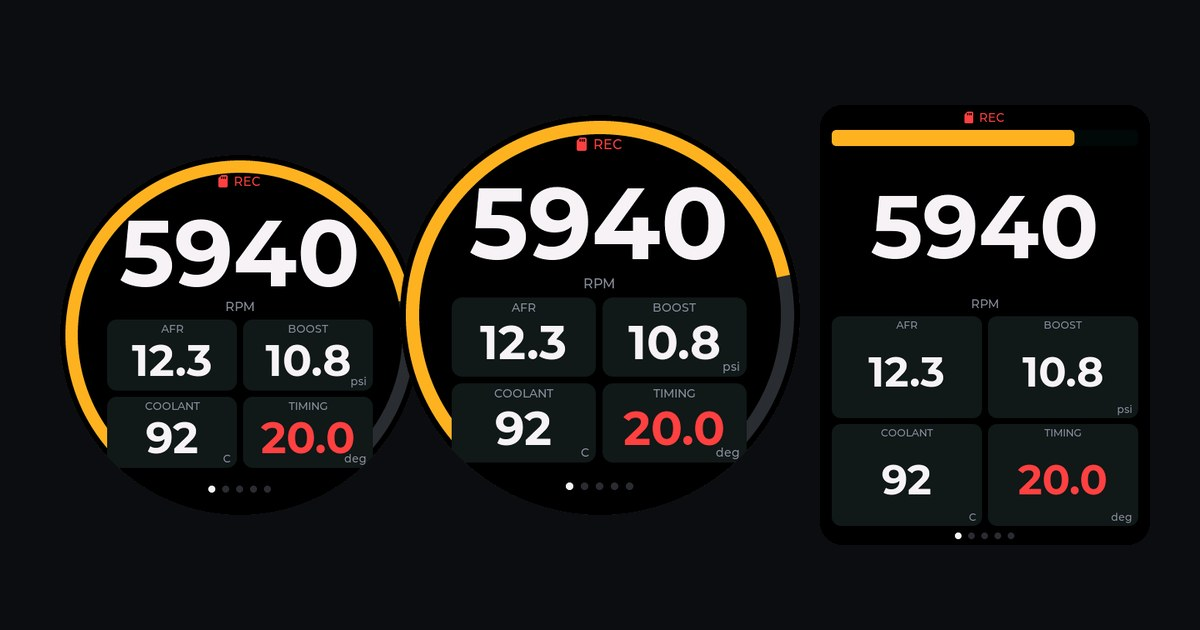
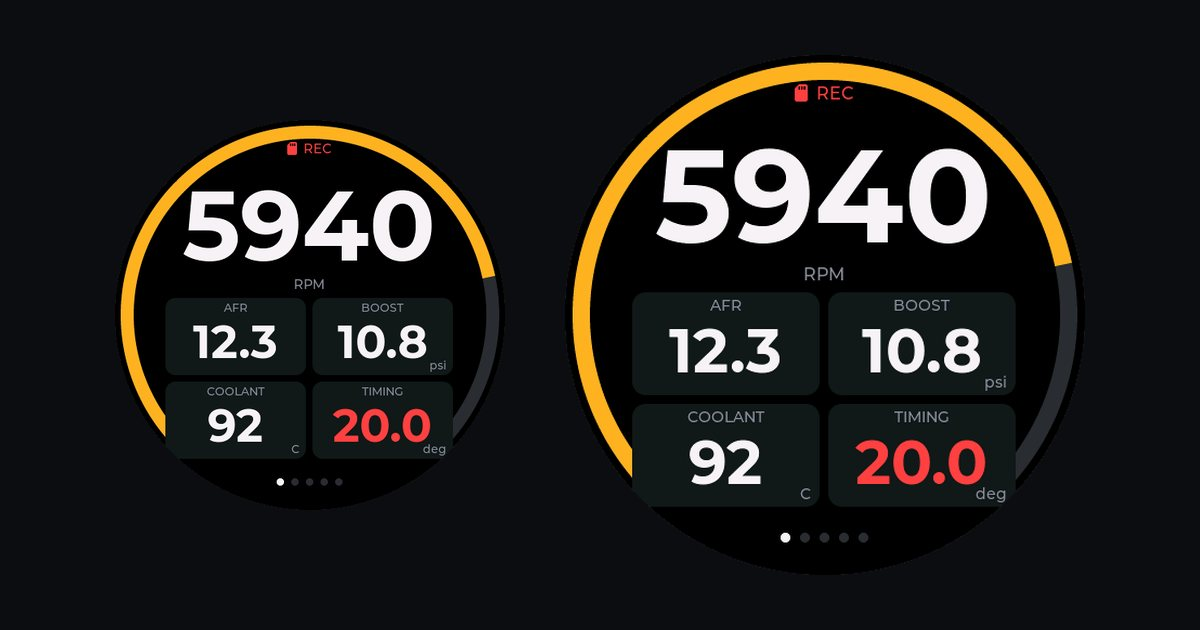
R53 dash screen post: the two supported Waveshare screens, with part numbers and Amazon links
The page now lists only the ESP32-S3-Touch-LCD-2.1 and ESP32-S3-Touch-LCD-2.8C,
with a buy link for each. The AMOLED boards, their renders and the 2.41 V1/V2
flashing note are gone, and the cover shows the 2.1 and 2.8 at their size ratio.

Claude-Session: https://claude.ai/code/session_0179yenqSUUUni4Xp4BaMoBC

Changed region(s): [[0.0308, 0.0905, 0.925, 0.8746], [0.925, 0.8143, 0.9558, 0.8444], [0.925, 0.6333, 0.9558, 0.6635]]

diff --git a/_includes/r53-dash-feature.html b/_includes/r53-dash-feature.html
@@ -55,12 +55,12 @@
   <div class="stats">
     <div class="stat"><b>5</b><span>pages, swiped</span></div>
     <div class="stat"><b>20 Hz</b><span>live values</span></div>
-    <div class="stat"><b>4</b><span>screens it runs on</span></div>
+    <div class="stat"><b>2</b><span>Waveshare screens</span></div>
     <div class="stat"><b>Always</b><span>logging to SD</span></div>
   </div>
 </div>
 
-<p class="note">Every screen image on this page is rendered from the screen firmware's own page code with simulated data, a third-gear pull at 5,940 rpm and 10.8 psi. They are not photos of the hardware: the new screens haven't arrived yet.</p>
+<p class="note">Every screen image on this page is rendered from the screen firmware's own page code with simulated data, a third-gear pull at 5,940 rpm and 10.8 psi. They are not photos of the hardware.</p>
 
 <h2 id="pages">The pages</h2>
 <p class="lead">Swipe left and right. The line at the top says whether the bridge is there and whether the card is recording; the dots at the bottom say which page you're on. Shown on the 2.8&Prime; round LCD.</p>
@@ -73,23 +73,20 @@
   <figure><img src="/assets/images/r53-dash-screen/lcd28c-no-bridge.png" alt="Round dash screen before the bridge is connected: every gauge reads two grey dashes, No bridge at the top" width="480" height="480" loading="lazy"><figcaption><b>No bridge.</b> Before the cable is in, or if the bridge stops talking: every value goes to grey dashes. Nothing on the screen is ever a frozen number from a second ago.</figcaption></figure>
 </div>
 
-<h2 id="screens">Three screens, one firmware</h2>
-<p class="lead">The same pages run on four Waveshare ESP32-S3 boards. I ordered the three new ones to see which reads best in the car; the 2.1&Prime; is the methanol controller's screen, which I already have.</p>
+<h2 id="screens">Two screens, one firmware</h2>
+<p class="lead">The screen firmware supports two Waveshare round touch boards, and only these two. Both are an ESP32-S3 behind a 480 &times; 480 IPS panel, so every page looks the same on either; the 2.8&Prime; is just bigger. The 2.1&Prime; is the methanol controller's screen.</p>
 <div class="three">
-  <figure><img src="/assets/images/r53-dash-screen/lcd28c-gauges.png" alt="Gauges page on the 2.8 inch round LCD" width="480" height="480" loading="lazy"><figcaption><b>2.8&Prime; round LCD.</b> The biggest face, and the easiest port: the 2.1&Prime;'s wiring with a different panel and touch chip.</figcaption></figure>
-  <figure><img src="/assets/images/r53-dash-screen/amoled175-gauges.png" alt="Gauges page on the 1.75 inch round AMOLED" width="466" height="466" loading="lazy"><figcaption><b>1.75&Prime; round AMOLED.</b> Fits a 52&nbsp;mm gauge pod, and the methanol screen ran on it before, so its code came back out of git.</figcaption></figure>
-  <figure class="rect"><img src="/assets/images/r53-dash-screen/amoled241-gauges.png" alt="Gauges page on the 2.41 inch AMOLED in portrait, RPM bar across the top" width="450" height="600" loading="lazy"><figcaption><b>2.41&Prime; AMOLED.</b> The brightest of the lot. Portrait for now; landscape once I've seen the real panel.</figcaption></figure>
+  <figure><img src="/assets/images/r53-dash-screen/lcd28c-gauges.png" alt="Gauges page on the 2.1 inch round LCD" width="480" height="480" loading="lazy" style="max-width:225px"><figcaption><b>2.1&Prime; round LCD.</b> Waveshare ESP32-S3-Touch-LCD-2.1. Its panel and touch code are already proven on the methanol controller.</figcaption></figure>
+  <figure><img src="/assets/images/r53-dash-screen/lcd28c-gauges.png" alt="Gauges page on the 2.8 inch round LCD" width="480" height="480" loading="lazy"><figcaption><b>2.8&Prime; round LCD.</b> Waveshare ESP32-S3-Touch-LCD-2.8C. The bigger face: the 2.1&Prime;'s wiring with a different panel and touch chip.</figcaption></figure>
 </div>
 <div class="tbl"><table>
-  <thead><tr><th>Screen</th><th>Panel</th><th>Brightness</th><th>Fits</th></tr></thead>
+  <thead><tr><th>Screen</th><th>Waveshare part</th><th>Panel</th><th>Fits</th><th>Buy</th></tr></thead>
   <tbody>
-    <tr><td><b>2.1&Prime; round LCD</b></td><td class="num">480 &times; 480 IPS</td><td>not published</td><td>52&nbsp;mm pod</td></tr>
-    <tr><td><b>2.8&Prime; round LCD</b></td><td class="num">480 &times; 480 IPS</td><td>not published</td><td>60&nbsp;mm pod or a printed bezel</td></tr>
-    <tr><td><b>1.75&Prime; round AMOLED</b></td><td class="num">466 &times; 466</td><td class="num">700 nits</td><td>52&nbsp;mm pod</td></tr>
-    <tr><td><b>2.41&Prime; AMOLED</b></td><td class="num">450 &times; 600</td><td class="num">800 nits</td><td>dash top or centre stack</td></tr>
+    <tr><td><b>2.1&Prime; round LCD</b></td><td><code>ESP32-S3-Touch-LCD-2.1</code></td><td class="num">480 &times; 480 IPS</td><td>52&nbsp;mm pod</td><td><a href="https://www.amazon.com/dp/B0DDPQSKJD">Amazon</a></td></tr>
+    <tr><td><b>2.8&Prime; round LCD</b></td><td><code>ESP32-S3-Touch-LCD-2.8C</code></td><td class="num">480 &times; 480 IPS</td><td>60&nbsp;mm pod or a printed bezel</td><td><a href="https://www.amazon.com/dp/B0DMJZPH2R">Amazon</a></td></tr>
   </tbody>
 </table></div>
-<p>The AMOLEDs have real blacks, so a dark gauge face holds its contrast in daylight far better than a backlit LCD at the same rating. They can burn in a fixed layout, so the whole picture drifts a few pixels every three minutes, the same care the methanol screen's AMOLED build had.</p>
+<p>Buy the exact part number. Waveshare sells other round and AMOLED boards with the same ESP32-S3 that look close, but they use different panels and touch chips and aren't supported.</p>
 
 <h2 id="logging">It logs everything, all the time</h2>
 <p class="lead">The bridge has had a microSD slot since the rev C board. Until now it only logged when the app switched it on, and only the channels it decodes. Now it logs whenever a card is in, and keeps all of it.</p>
@@ -119,10 +116,10 @@
 <p>Both go on from Chrome or Edge with the <a href="https://mrblahhhh.github.io/esp32-shift-light-R53-mini/">R53 flasher</a>, build 11 on:</p>
 <ul class="tight">
   <li><b>The bridge.</b> Plug in the XIAO, press Connect, tick <b>This board drives a dash screen</b> and flash. Update keeps your K-line polling and shift light settings. From then on the USB-C is the screen's, so to flash the bridge again, hold BOOT on the XIAO while you plug it into the computer.</li>
-  <li><b>The screen.</b> Flash it on its own, not plugged into the bridge. All four have the same chip, so the first time the flasher asks which one it is; after that it knows from the firmware. Not sure whether a 2.41&Prime; is the V1 or V2 board: flash the V2 build, and if it stays dark, the V1.</li>
+  <li><b>The screen.</b> Flash it on its own, not plugged into the bridge. Both have the same chip, so the first time the flasher asks which one it is, the 2.1&Prime; or the 2.8&Prime;; after that it knows from the firmware.</li>
 </ul>
 
 <h2 id="status">Where it's at</h2>
-<p>The firmware builds for the bridge and for all four screens, the link between them is checked by tests on a PC, every page renders as you see above, and it's all on the flasher as build 11 (bridge firmware 381, screen firmware 0.1.0). None of it has run on a screen in the car yet, so keep build 10 on a bridge you rely on until it has. The 2.1&Prime; goes on first, since its panel and touch code are already proven on the methanol controller; the three new screens follow when they land.</p>
+<p>The firmware builds for the bridge and for both screens, the link between them is checked by tests on a PC, every page renders as you see above, and it's all on the flasher as build 11 (bridge firmware 381, screen firmware 0.1.0). None of it has run on a screen in the car yet, so keep build 10 on a bridge you rely on until it has. The 2.1&Prime; goes on first, since its panel and touch code are already proven on the methanol controller; the 2.8&Prime; follows.</p>
 
 </div>

diff --git a/_posts/R53-DASH-POST-ORDER.md b/_posts/R53-DASH-POST-ORDER.md
@@ -7,17 +7,18 @@ Styles are scoped under `.rd`.
 Matt asked for it on 2026-11-17 ("push this new setup to our blog, with the screens and sample
 photos"): the dash screen (bridge build 381) and the always-on SD log (build 380).
 
-1. **Hero**: what it is, stats (5 pages, 20 Hz, 4 screens, always logging).
+1. **Hero**: what it is, stats (5 pages, 20 Hz, 2 Waveshare screens, always logging).
 2. **Render note**: every screen image is a firmware render with simulated data, not a photo. Keep
    this until real photos replace them, and say which are which when they do.
 3. **The pages** (`#pages`): the five pages and the no-bridge state, on the 2.8.
-4. **Three screens, one firmware** (`#screens`): the gauge page on the 2.8, 1.75 and 2.41, then the
-   table (panel, brightness, what it fits) and the AMOLED burn-in note.
+4. **Two screens, one firmware** (`#screens`): the gauge page on the 2.1 (the 2.8 render shown
+   smaller; same 480 x 480 panel) and the 2.8, then the table (Waveshare part number, panel, what
+   it fits, Amazon link) and a line to buy the exact part number.
 5. **It logs everything** (`#logging`): raw CAN and K-line, the decoded log, delete-oldest.
 6. **Presets** (`#presets`): the four presets and their DME blocks.
 7. **Hooking it up** (`#wiring`): one USB-C, the bridge is host, console moves to D4/D5; then
    flashing both from the R53 flasher (build 11): the "drives a dash screen" box, BOOT to reflash
-   the bridge, the screen picker and the 2.41 V1/V2 rule.
+   the bridge, and the screen picker (2.1 or 2.8).
 8. **Where it's at** (`#status`): builds and renders, on the flasher as build 11, not yet run on a
    screen in the car; keep build 10 on a bridge you rely on.
 
@@ -29,6 +30,9 @@ photos"): the dash screen (bridge build 381) and the always-on SD log (build 380
 - Numbers come from the firmware: presets and channels from `shared/screenlink/r53screen.h`, the
   SD reserve (256 / 512 MB, 64 MB files) from `sdlog.cpp`, RPM arc colours (5,800 amber, 6,800 red)
   from `screen/src/ui/gauges.cpp`. Change them here when they change there.
+- Matt supports two screens only (2026-11-26): Waveshare ESP32-S3-Touch-LCD-2.1
+  (amazon.com/dp/B0DDPQSKJD) and ESP32-S3-Touch-LCD-2.8C (amazon.com/dp/B0DMJZPH2R). Don't list the
+  AMOLED boards, even though the firmware still has builds for them.
 - Brightness for the 2.1 and 2.8 isn't published by Waveshare; don't invent a figure.
 - No ordering section: Matt hasn't said the screen is for sale. If it becomes so, orders go to
   ryan3ddesigns@gmail.com like the other kits.
@@ -38,5 +42,5 @@ photos"): the dash screen (bridge build 381) and the always-on SD log (build 380
 `assets/images/r53-dash-screen/`: `screen/tools/preview` in the R53 bridge repo renders the real
 `screen/src/ui` pages headless against LVGL 9.4 (`r53_preview <dir>`, then `png.py`), with a
 simulated third-gear pull held at 11.2 s (5,940 rpm, AFR 12.3, MAP 176 kPa, knock retard -1.5).
-Round panels were masked to their circle with transparent corners. `cover.jpg` is the three gauge
-pages composed on #0B0D10 at 1200 x 630.
+Round panels were masked to their circle with transparent corners. `cover.jpg` is the 2.8 gauge
+page twice on #0B0D10 at 1200 x 630, at 390 and 520 px for the 2.1 and 2.8 (their size ratio).

diff --git a/_posts/2026-11-17-r53-bridge-dash-screen.md b/_posts/2026-11-17-r53-bridge-dash-screen.md
@@ -2,7 +2,7 @@
 title: "A dash screen for the R53 bridge, and an SD log that never stops"
 date: 2026-11-17 12:00:00 -0500
 categories: car tech
-tags: [mini, r53, esp32, esp32-s3, k-line, can-bus, datalogger, sd-card, lvgl, waveshare, amoled, dash-screen]
+tags: [mini, r53, esp32, esp32-s3, k-line, can-bus, datalogger, sd-card, lvgl, waveshare, dash-screen]
 cover: /assets/images/r53-dash-screen/cover.jpg
 lightbox: true
 excerpt: "The R53 K-line and CAN bridge now drives a touchscreen off its USB-C: live gauges, a 20-second graph, the SD log with New log and Mark buttons, and DME read presets. Underneath, it logs every CAN frame and every K-line exchange to the SD card whenever a card is in, and clears its oldest logs when the card fills."
